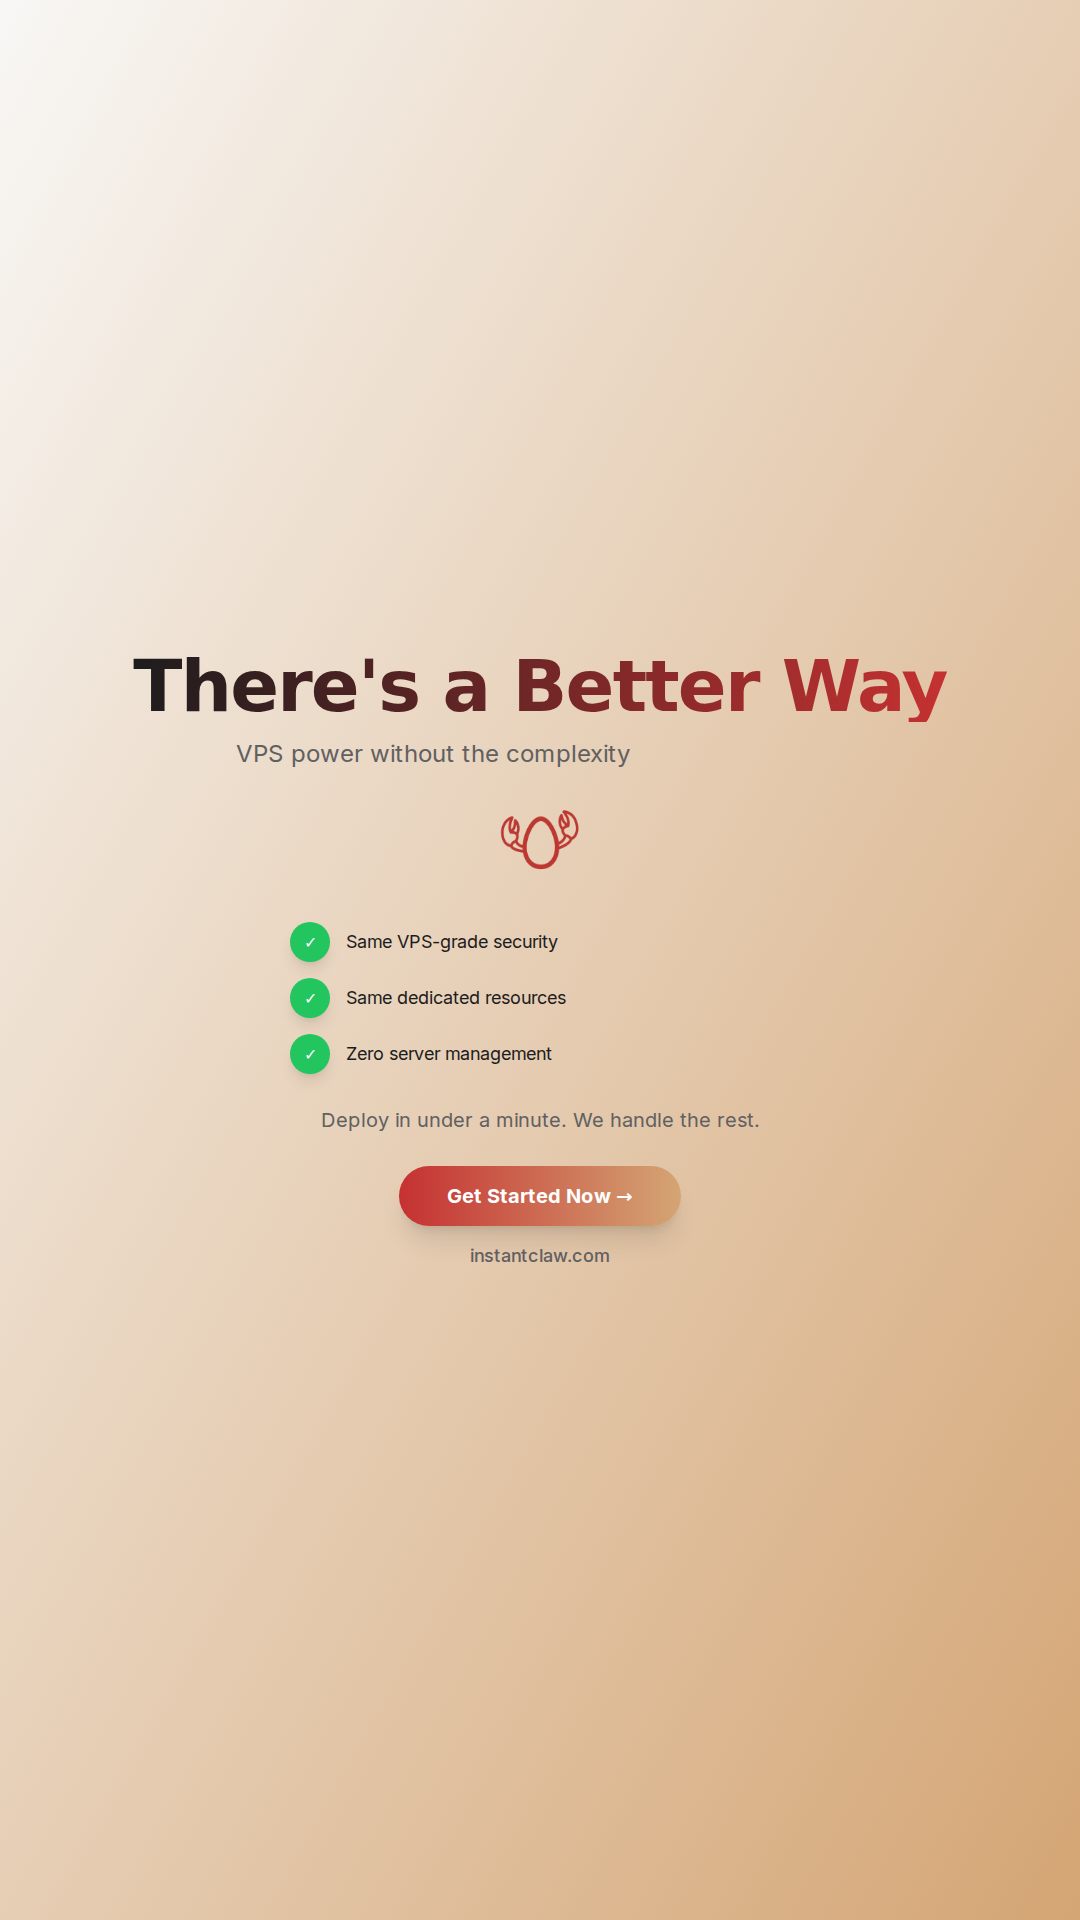
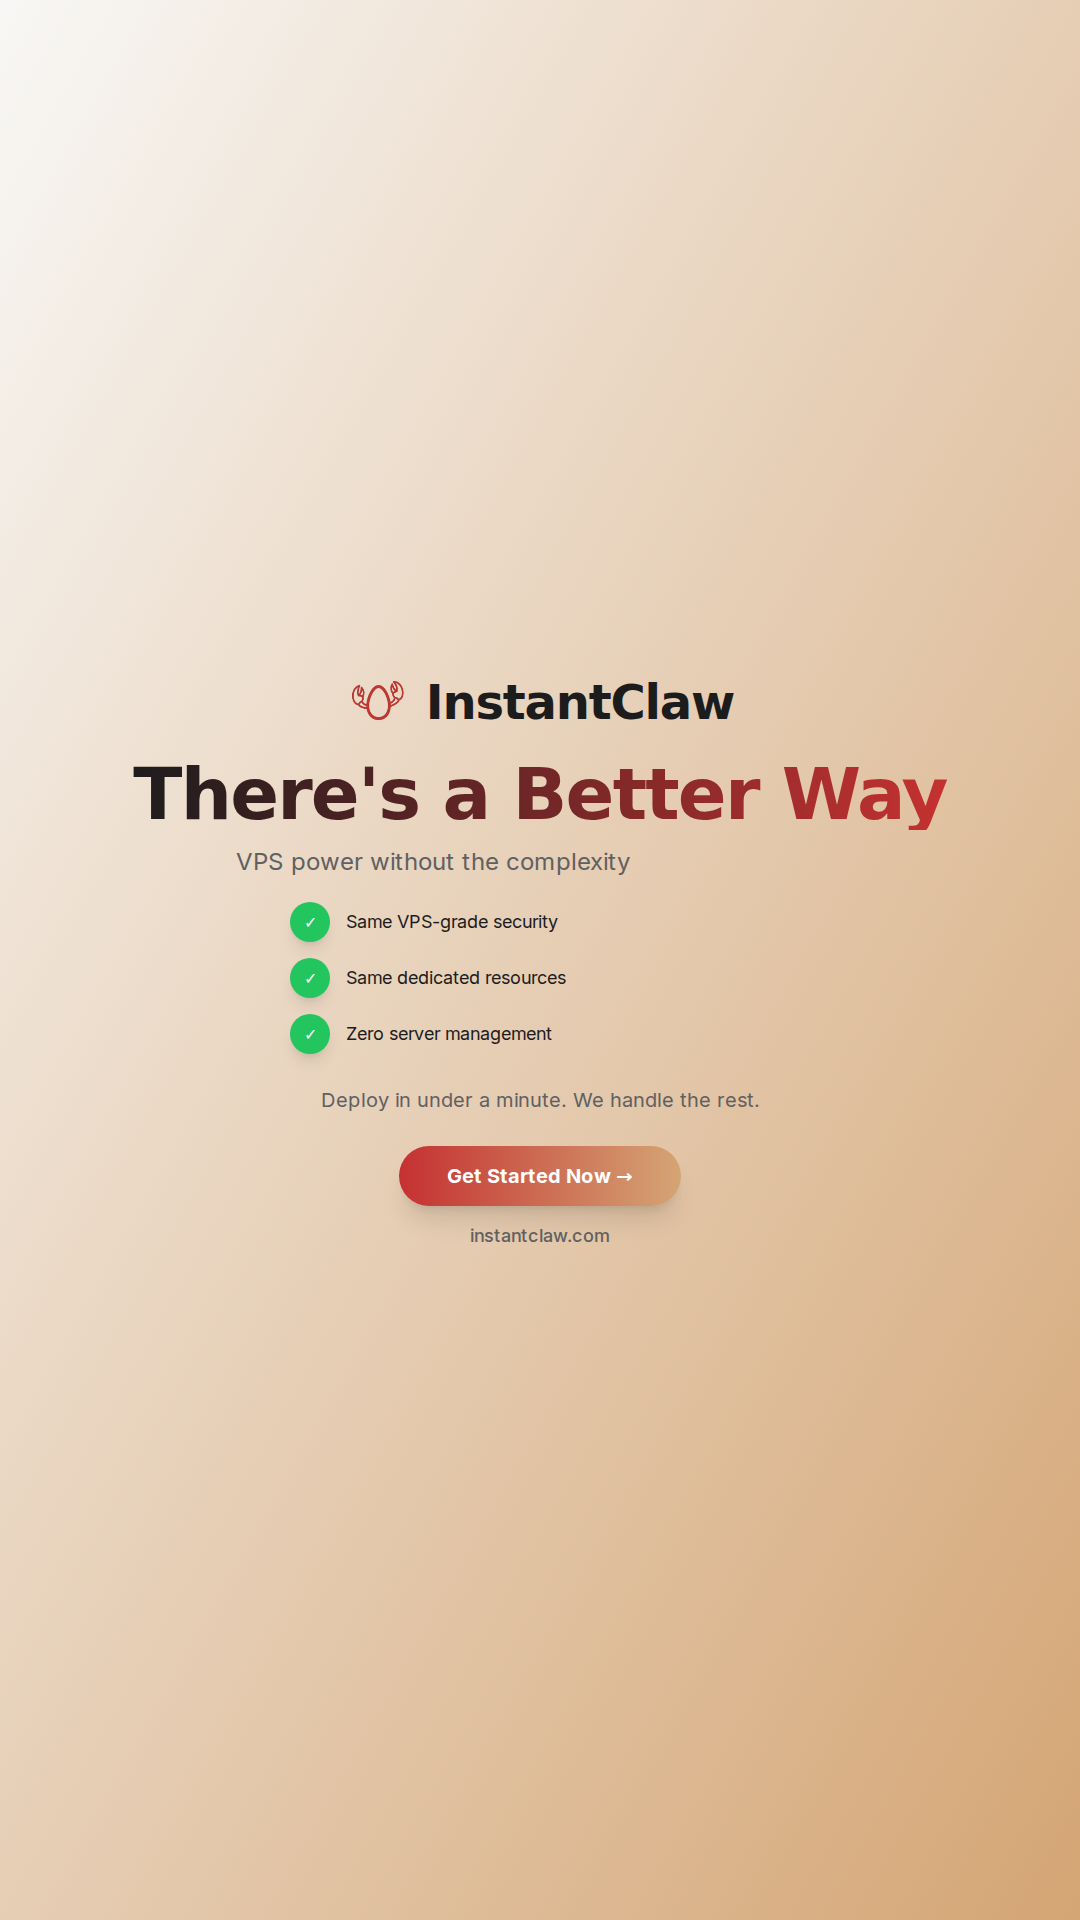
Add Post 7 Slide 1: Cover - Tame Your Inbox in 60 Seconds
- Title: Tame Your Inbox (solid), in 60 Seconds (gradient)
- Email icon in brand gradient circle
- 5 slide progress dots
- Use case: Inbox Organization

Changed region(s): [[0.1222, 0.3438, 0.7028, 0.6562], [0.7333, 0.3438, 0.8861, 0.4375]]

diff --git a/pages/post7-slide-01.js b/pages/post7-slide-01.js
@@ -1,0 +1,53 @@
+import React from 'react';
+import { Inter } from 'next/font/google';
+
+const inter = Inter({ subsets: ['latin'], display: 'swap' });
+
+const Post7Slide01Cover = () => {
+  return (
+    <div className={`${inter.className} min-h-screen w-full flex flex-col items-center justify-center bg-gradient-to-br from-[#F8F7F5] to-[#D4A574] p-8 font-sans antialiased`}>
+      {/* Title */}
+      <div className="text-center max-w-[900px] mb-8">
+        <h1 className="font-sans text-5xl md:text-6xl lg:text-7xl font-bold tracking-tight text-[#1D1C1D] mb-4">
+          Tame Your Inbox
+        </h1>
+        <h2 className="font-sans text-4xl md:text-5xl lg:text-6xl font-bold tracking-tight bg-gradient-to-r from-[#1D1C1D] via-[#c53131] via-[#D4A574] to-[#1D1C1D] bg-clip-text text-transparent bg-[length:200%_auto]">
+          in 60 Seconds
+        </h2>
+      </div>
+
+      {/* Subtitle */}
+      <p className="text-xl text-[#616061] text-center max-w-[600px] mb-12">
+        Email overwhelm ends now
+      </p>
+
+      {/* Email Icon */}
+      <div className="mb-10">
+        <div className="w-28 h-28 rounded-full bg-gradient-to-br from-[#D4A574] to-[#c53131] flex items-center justify-center shadow-2xl">
+          <svg className="w-14 h-14 text-white" fill="none" viewBox="0 0 24 24" stroke="currentColor" strokeWidth={1.5}>
+            <path strokeLinecap="round" strokeLinejoin="round" d="M3 8l7.89 5.26a2 2 0 002.22 0L21 8M5 19h14a2 2 0 002-2V7a2 2 0 00-2-2H5a2 2 0 00-2 2v10a2 2 0 002 2z" />
+          </svg>
+        </div>
+      </div>
+
+      {/* Preview dots for carousel */}
+      <div className="flex gap-2">
+        <div className="w-3 h-3 rounded-full bg-[#1D1C1D]"></div>
+        <div className="w-3 h-3 rounded-full bg-[#D4A574]"></div>
+        <div className="w-3 h-3 rounded-full bg-[#D4A574]"></div>
+        <div className="w-3 h-3 rounded-full bg-[#D4A574]"></div>
+        <div className="w-3 h-3 rounded-full bg-[#D4A574]"></div>
+      </div>
+
+      {/* Swipe indicator */}
+      <div className="mt-8 flex items-center gap-2 text-[#616061]">
+        <span className="text-sm">Swipe to see how</span>
+        <svg className="w-5 h-5" fill="none" viewBox="0 0 24 24" stroke="currentColor">
+          <path strokeLinecap="round" strokeLinejoin="round" strokeWidth={2} d="M9 5l7 7-7 7" />
+        </svg>
+      </div>
+    </div>
+  );
+};
+
+export default Post7Slide01Cover;

diff --git a/pages/post5-slide-05.js b/pages/post5-slide-05.js
@@ -6,19 +6,22 @@ const inter = Inter({ subsets: ['latin'], display: 'swap' });
 const Post5Slide05Solution = () => {
   return (
     <div className={`${inter.className} min-h-screen w-full flex flex-col items-center justify-center bg-gradient-to-br from-[#F8F7F5] to-[#D4A574] p-8 font-sans antialiased`}>
+      {/* Logo + Brand Name */}
+      <div className="flex items-center gap-4 mb-6">
+        <img src="/instantclaw-logo.png" alt="InstantClaw" className="w-16 h-16" />
+        <h1 className="font-sans text-4xl md:text-5xl font-bold tracking-tight text-[#1D1C1D]">
+          InstantClaw
+        </h1>
+      </div>
+
       {/* Main Headline */}
       <div className="text-center mb-6">
-        <h1 className="font-sans text-5xl md:text-6xl lg:text-7xl font-bold tracking-tight bg-gradient-to-r from-[#1D1C1D] via-[#c53131] via-[#D4A574] to-[#1D1C1D] bg-clip-text text-transparent bg-[length:200%_auto] mb-4">
+        <h2 className="font-sans text-5xl md:text-6xl lg:text-7xl font-bold tracking-tight bg-gradient-to-r from-[#1D1C1D] via-[#c53131] via-[#D4A574] to-[#1D1C1D] bg-clip-text text-transparent bg-[length:200%_auto] mb-4">
           There's a Better Way
-        </h1>
+        </h2>
         <p className="text-2xl text-[#616061] text-center max-w-[600px]">
           VPS power without the complexity
         </p>
-      </div>
-
-      {/* Logo */}
-      <div className="mb-8">
-        <img src="/instantclaw-logo.png" alt="InstantClaw" className="w-24 h-24" />
       </div>
 
       {/* Value Props */}

diff --git a/pages/index.js b/pages/index.js
@@ -1,4 +1,4 @@
 import React from 'react';
-import Post5Slide05Solution from './post5-slide-05';
+import Post7Slide01Cover from './post7-slide-01';
 
-export default Post5Slide05Solution;
+export default Post7Slide01Cover;
